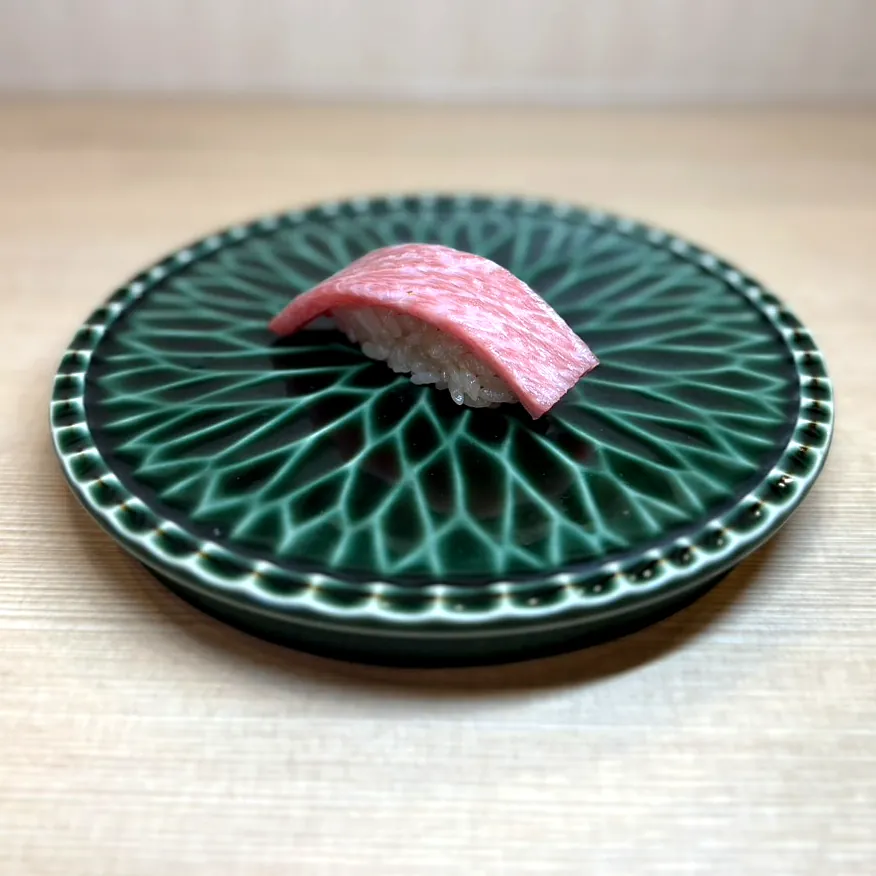
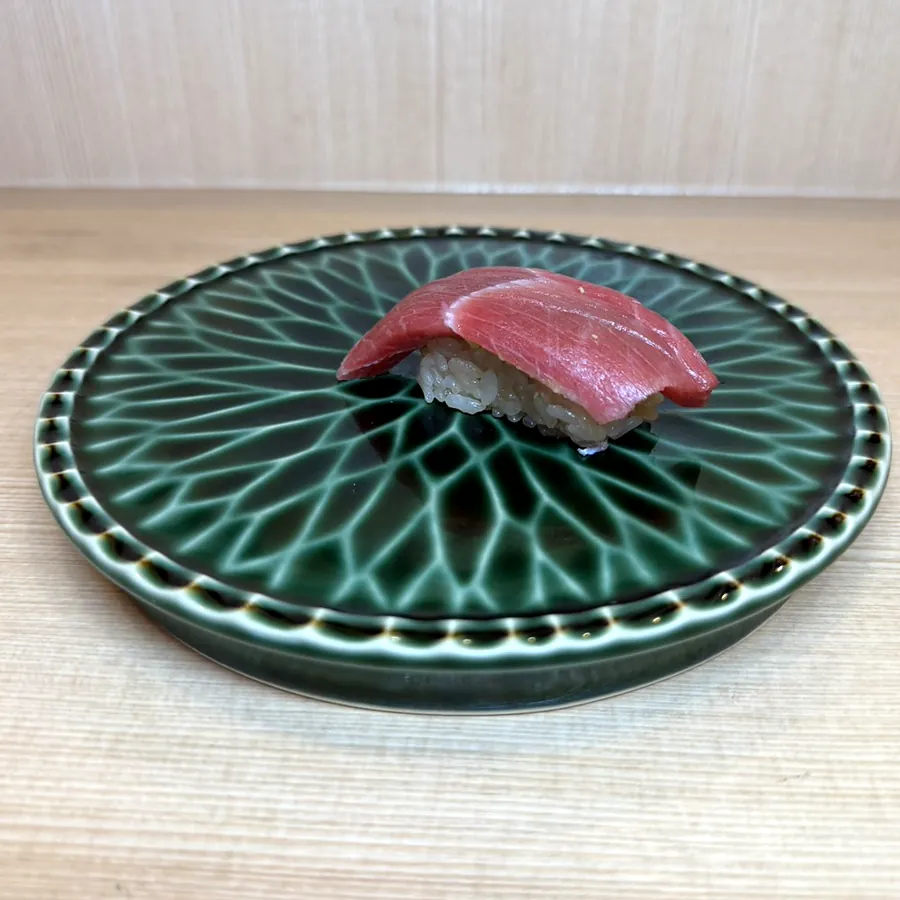
Menu nigiri slider: otoro first

diff --git a/scripts/process-photos.py b/scripts/process-photos.py
@@ -63,8 +63,8 @@ JOBS = [
     ("band/strip-01", "85688384", 2.8, 0.5, 0.52, [1600, 1024, 640]),  # 横長の帯（おつまみ三種）
 ]
 # 単品の寿司（メニューの横スライド）。並び順＝掲載順
-SUSHI = ["85696611", "85696670", "85696616", "85696628",
-         "85696660", "85696680", "85696632", "85696708"]  # 同じネタの似た写真は1枚に絞る  # 同じネタの似た写真は1枚に絞る
+SUSHI = ["85696616", "85696611", "85696670", "85696628",
+         "85696660", "85696680", "85696632", "85696708"]  # 大トロが先頭。同じネタの似た写真は1枚に絞る  # 同じネタの似た写真は1枚に絞る  # 同じネタの似た写真は1枚に絞る
 
 # 背景用: (出力名, 元写真)  外観2種・店内1種
 BG = [("exterior-2", "85696727"), ("interior-1", "85696600")]
